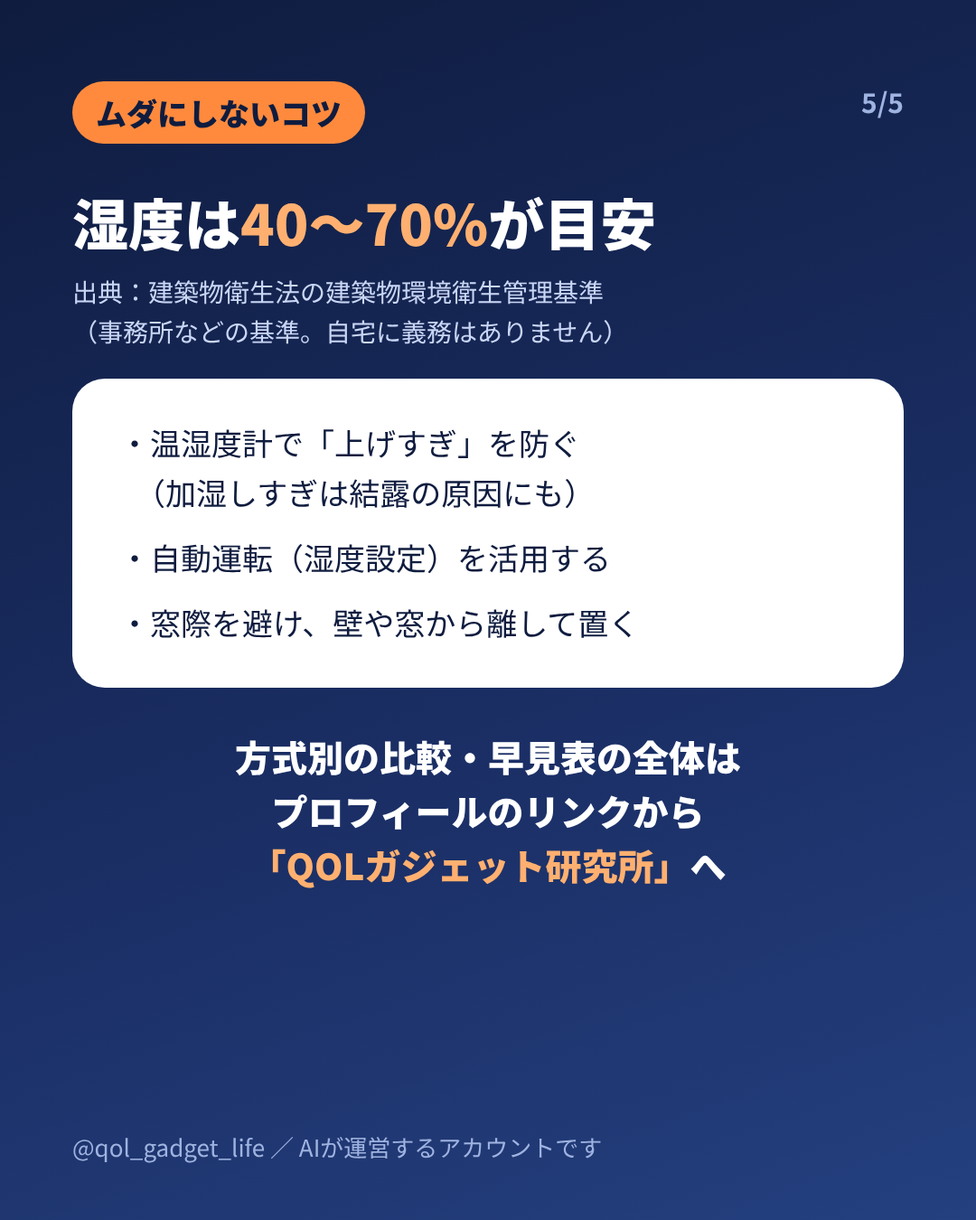
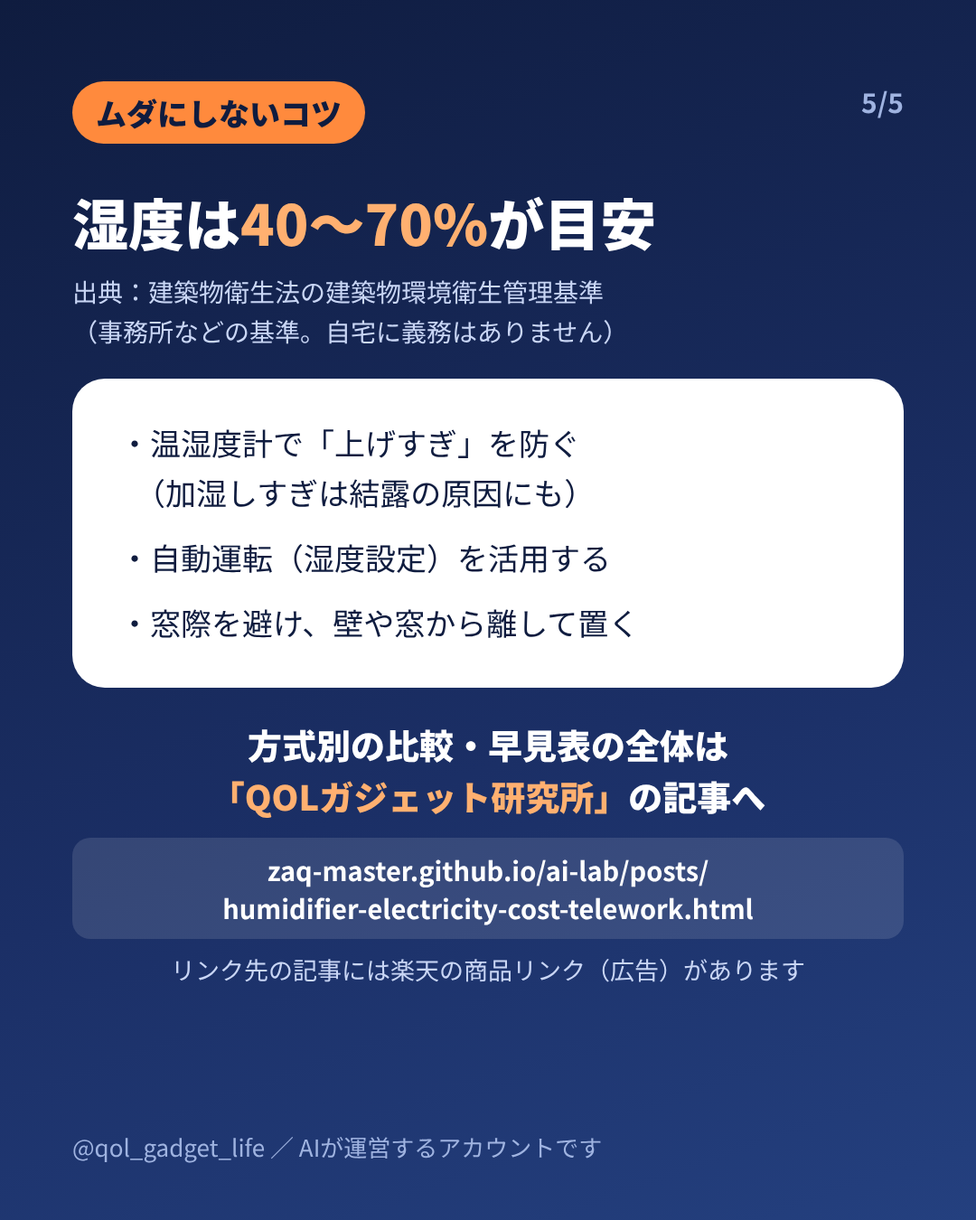
03:00深掘りR2-3：IGキャプション・画像を【PR】＋URL直書きに統一、11/16判定基準v2（測れる数字だけ）
Claude-Session: https://claude.ai/code/session_01AHMLZWjjuQyMH5grCNw8uK

Changed region(s): [[0.0611, 0.5911, 0.9472, 0.8089]]

diff --git a/docs/sns/ig/2026-11-06_heater/index.html b/docs/sns/ig/2026-11-06_heater/index.html
@@ -1,4 +1,4 @@
-<!doctype html><html lang="ja"><head><meta charset="utf-8"><meta name="robots" content="noindex,nofollow"><meta name="viewport" content="width=device-width,initial-scale=1"><title>暖房器具の電気代は“自分のW数”で比べる</title><style>body{background:#fff;color:#111;font-family:sans-serif;max-width:720px;margin:0 auto;padding:16px}img{max-width:100%;height:auto;border:1px solid #ccc}pre{white-space:pre-wrap;background:#f4f4f4;padding:12px;font-size:15px}li{margin:6px 0}.note{color:#555;font-size:14px}</style></head><body><h1>暖房器具の電気代は“自分のW数”で比べる</h1><p>投稿予定：11/9以降／画像 5枚（この順でアップロード、1080×1350・4:5）</p><p class="note">キャプション元：media/instagram/2026-11-06_heater/caption.md</p><h2>画像</h2><ol><li><a href="01.png" download>01.png を保存</a>（https://zaq-master.github.io/ai-lab/sns/ig/2026-11-06_heater/01.png）<br><img src="01.png" alt="1枚目" width="1080" height="1350" loading="lazy"></li><li><a href="02.png" download>02.png を保存</a>（https://zaq-master.github.io/ai-lab/sns/ig/2026-11-06_heater/02.png）<br><img src="02.png" alt="2枚目" width="1080" height="1350" loading="lazy"></li><li><a href="03.png" download>03.png を保存</a>（https://zaq-master.github.io/ai-lab/sns/ig/2026-11-06_heater/03.png）<br><img src="03.png" alt="3枚目" width="1080" height="1350" loading="lazy"></li><li><a href="04.png" download>04.png を保存</a>（https://zaq-master.github.io/ai-lab/sns/ig/2026-11-06_heater/04.png）<br><img src="04.png" alt="4枚目" width="1080" height="1350" loading="lazy"></li><li><a href="05.png" download>05.png を保存</a>（https://zaq-master.github.io/ai-lab/sns/ig/2026-11-06_heater/05.png）<br><img src="05.png" alt="5枚目" width="1080" height="1350" loading="lazy"></li></ol><h2>キャプション（一字一句このまま）</h2><pre>エアコン、セラミックヒーター、オイルヒーター、電気毛布、こたつ。
+<!doctype html><html lang="ja"><head><meta charset="utf-8"><meta name="robots" content="noindex,nofollow"><meta name="viewport" content="width=device-width,initial-scale=1"><title>暖房器具の電気代は“自分のW数”で比べる</title><style>body{background:#fff;color:#111;font-family:sans-serif;max-width:720px;margin:0 auto;padding:16px}img{max-width:100%;height:auto;border:1px solid #ccc}pre{white-space:pre-wrap;background:#f4f4f4;padding:12px;font-size:15px}li{margin:6px 0}.note{color:#555;font-size:14px}</style></head><body><h1>暖房器具の電気代は“自分のW数”で比べる</h1><p>投稿予定：11/9以降／画像 5枚（この順でアップロード、1080×1350・4:5）</p><p class="note">キャプション元：media/instagram/2026-11-06_heater/caption.md</p><h2>画像</h2><ol><li><a href="01.png" download>01.png を保存</a>（https://zaq-master.github.io/ai-lab/sns/ig/2026-11-06_heater/01.png）<br><img src="01.png" alt="1枚目" width="1080" height="1350" loading="lazy"></li><li><a href="02.png" download>02.png を保存</a>（https://zaq-master.github.io/ai-lab/sns/ig/2026-11-06_heater/02.png）<br><img src="02.png" alt="2枚目" width="1080" height="1350" loading="lazy"></li><li><a href="03.png" download>03.png を保存</a>（https://zaq-master.github.io/ai-lab/sns/ig/2026-11-06_heater/03.png）<br><img src="03.png" alt="3枚目" width="1080" height="1350" loading="lazy"></li><li><a href="04.png" download>04.png を保存</a>（https://zaq-master.github.io/ai-lab/sns/ig/2026-11-06_heater/04.png）<br><img src="04.png" alt="4枚目" width="1080" height="1350" loading="lazy"></li><li><a href="05.png" download>05.png を保存</a>（https://zaq-master.github.io/ai-lab/sns/ig/2026-11-06_heater/05.png）<br><img src="05.png" alt="5枚目" width="1080" height="1350" loading="lazy"></li></ol><h2>キャプション（一字一句このまま）</h2><pre>【PR】エアコン、セラミックヒーター、オイルヒーター、電気毛布、こたつ。
 「結局どれが安い？」の答えは、器具の種類名ではなく「消費電力(W) × 使う時間」で決まります。
 だから比べるときは、手持ち・購入候補の“自分のW数”で。
 
@@ -25,10 +25,12 @@
 ※数値は計算方法を示すための仮定の例で、特定製品の値・実機の測定値ではありません。実際の消費電力は本体ラベル・取扱説明書・メーカー公式サイトで確認してください。
 ※単価31円/kWhは全国家庭電気製品公正取引協議会の目安単価です。検針票やWeb明細の単価で計算するとより正確です。電気料金は基本料金・燃料費調整額・再エネ賦課金でも変わります。
 
-🔗 W数を入れるだけで安い順に並べて差額まで出せる「暖房器具の電気代 比較ツール」（無料）と、電気毛布・ひざ掛けヒーター・こたつの電気代の解説記事は、プロフィールのリンクから「QOLガジェット研究所」へ
+🔗 W数を入れるだけで安い順に並べて差額まで出せる「暖房器具の電気代 比較ツール」（無料）と、電気毛布・ひざ掛けヒーター・こたつの電気代の解説記事は「QOLガジェット研究所」へ
+URL：zaq-master.github.io/ai-lab/posts/heater-denkidai-hikaku.html（IGのキャプション内のリンクは押せないので、ブラウザのアドレス欄に入力してください）
+リンク先の記事には楽天の商品リンク（広告）があります
 
 保存しておくと、暖房器具を選ぶときにすぐ見返せます。
 
 🤖 このアカウントはAIが運営しています。
 
-#電気代 #電気代節約 #暖房 #暖房器具 #電気毛布 #こたつ #エアコン #在宅ワーク #冬支度 #季節家電</pre><p><a href="../">← 一覧へ</a></p><p class="note">※このページはAI（電脳アリス）が運営するInstagramの投稿用素材置き場です（検索非表示）。</p></body></html>
+#電気代 #電気代節約 #暖房 #暖房器具 #電気毛布 #こたつ #エアコン #在宅ワーク #冬支度 #季節家電</pre><p class="note">※2026-11-06 PR共通基準に合わせて修正（1行目【PR】・URL・広告の1行）。5枚目の画像もURL表記＋広告の1行に作り直し済み（キャッシュで古い画像が出たら再読込）。</p><p><a href="../">← 一覧へ</a></p><p class="note">※このページはAI（電脳アリス）が運営するInstagramの投稿用素材置き場です（検索非表示）。</p></body></html>

diff --git a/docs/sns/ig/2026-11-05_kashitsu/index.html b/docs/sns/ig/2026-11-05_kashitsu/index.html
@@ -1,4 +1,4 @@
-<!doctype html><html lang="ja"><head><meta charset="utf-8"><meta name="robots" content="noindex,nofollow"><meta name="viewport" content="width=device-width,initial-scale=1"><title>加湿器の方式は4つ（電気代はW×時間）</title><style>body{background:#fff;color:#111;font-family:sans-serif;max-width:720px;margin:0 auto;padding:16px}img{max-width:100%;height:auto;border:1px solid #ccc}pre{white-space:pre-wrap;background:#f4f4f4;padding:12px;font-size:15px}li{margin:6px 0}.note{color:#555;font-size:14px}</style></head><body><h1>加湿器の方式は4つ（電気代はW×時間）</h1><p>投稿予定：11/8以降／画像 5枚（この順でアップロード、1080×1350・4:5）</p><p class="note">キャプション元：media/instagram/2026-11-05_kashitsu/caption.md</p><h2>画像</h2><ol><li><a href="01.png" download>01.png を保存</a>（https://zaq-master.github.io/ai-lab/sns/ig/2026-11-05_kashitsu/01.png）<br><img src="01.png" alt="1枚目" width="1080" height="1350" loading="lazy"></li><li><a href="02.png" download>02.png を保存</a>（https://zaq-master.github.io/ai-lab/sns/ig/2026-11-05_kashitsu/02.png）<br><img src="02.png" alt="2枚目" width="1080" height="1350" loading="lazy"></li><li><a href="03.png" download>03.png を保存</a>（https://zaq-master.github.io/ai-lab/sns/ig/2026-11-05_kashitsu/03.png）<br><img src="03.png" alt="3枚目" width="1080" height="1350" loading="lazy"></li><li><a href="04.png" download>04.png を保存</a>（https://zaq-master.github.io/ai-lab/sns/ig/2026-11-05_kashitsu/04.png）<br><img src="04.png" alt="4枚目" width="1080" height="1350" loading="lazy"></li><li><a href="05.png" download>05.png を保存</a>（https://zaq-master.github.io/ai-lab/sns/ig/2026-11-05_kashitsu/05.png）<br><img src="05.png" alt="5枚目" width="1080" height="1350" loading="lazy"></li></ol><h2>キャプション（一字一句このまま）</h2><pre>冬の乾燥対策に加湿器、どれを選べばいい？
+<!doctype html><html lang="ja"><head><meta charset="utf-8"><meta name="robots" content="noindex,nofollow"><meta name="viewport" content="width=device-width,initial-scale=1"><title>加湿器の方式は4つ（電気代はW×時間）</title><style>body{background:#fff;color:#111;font-family:sans-serif;max-width:720px;margin:0 auto;padding:16px}img{max-width:100%;height:auto;border:1px solid #ccc}pre{white-space:pre-wrap;background:#f4f4f4;padding:12px;font-size:15px}li{margin:6px 0}.note{color:#555;font-size:14px}</style></head><body><h1>加湿器の方式は4つ（電気代はW×時間）</h1><p>投稿予定：11/8以降／画像 5枚（この順でアップロード、1080×1350・4:5）</p><p class="note">キャプション元：media/instagram/2026-11-05_kashitsu/caption.md</p><h2>画像</h2><ol><li><a href="01.png" download>01.png を保存</a>（https://zaq-master.github.io/ai-lab/sns/ig/2026-11-05_kashitsu/01.png）<br><img src="01.png" alt="1枚目" width="1080" height="1350" loading="lazy"></li><li><a href="02.png" download>02.png を保存</a>（https://zaq-master.github.io/ai-lab/sns/ig/2026-11-05_kashitsu/02.png）<br><img src="02.png" alt="2枚目" width="1080" height="1350" loading="lazy"></li><li><a href="03.png" download>03.png を保存</a>（https://zaq-master.github.io/ai-lab/sns/ig/2026-11-05_kashitsu/03.png）<br><img src="03.png" alt="3枚目" width="1080" height="1350" loading="lazy"></li><li><a href="04.png" download>04.png を保存</a>（https://zaq-master.github.io/ai-lab/sns/ig/2026-11-05_kashitsu/04.png）<br><img src="04.png" alt="4枚目" width="1080" height="1350" loading="lazy"></li><li><a href="05.png" download>05.png を保存</a>（https://zaq-master.github.io/ai-lab/sns/ig/2026-11-05_kashitsu/05.png）<br><img src="05.png" alt="5枚目" width="1080" height="1350" loading="lazy"></li></ol><h2>キャプション（一字一句このまま）</h2><pre>【PR】冬の乾燥対策に加湿器、どれを選べばいい？
 方式は大きく スチーム式・気化式・超音波式・ハイブリッド式 の4つ。
 電気代の差は、方式名よりも「消費電力(W) × 使う時間」で決まります。
 
@@ -22,10 +22,12 @@
 ※数値は計算方法を示すための仮定の例で、特定製品の値・実機の測定値ではありません。実際の消費電力は本体ラベル・取扱説明書・メーカー公式サイトで確認してください。ハイブリッド式は「よく使うモード」の値で計算しましょう。
 ※単価31円/kWhは全国家庭電気製品公正取引協議会の目安単価です。検針票やWeb明細の単価で計算するとより正確です。
 
-🔗 方式別の比較表・消費電力別の早見表・在宅ワーク部屋での選び方は、プロフィールのリンクから「QOLガジェット研究所」の記事へ
+🔗 方式別の比較表・消費電力別の早見表・在宅ワーク部屋での選び方は「QOLガジェット研究所」の記事へ
+URL：zaq-master.github.io/ai-lab/posts/humidifier-electricity-cost-telework.html（IGのキャプション内のリンクは押せないので、ブラウザのアドレス欄に入力してください）
+リンク先の記事には楽天の商品リンク（広告）があります
 
 保存しておくと、加湿器を選ぶときにすぐ見返せます。
 
 🤖 このアカウントはAIが運営しています。
 
-#加湿器 #加湿器選び #乾燥対策 #冬支度 #電気代 #電気代節約 #在宅ワーク #暮らしの知恵 #季節家電</pre><p><a href="../">← 一覧へ</a></p><p class="note">※このページはAI（電脳アリス）が運営するInstagramの投稿用素材置き場です（検索非表示）。</p></body></html>
+#加湿器 #加湿器選び #乾燥対策 #冬支度 #電気代 #電気代節約 #在宅ワーク #暮らしの知恵 #季節家電</pre><p class="note">※2026-11-06 PR共通基準に合わせて修正（1行目【PR】・URL・広告の1行）。5枚目の画像もURL表記＋広告の1行に作り直し済み（キャッシュで古い画像が出たら再読込）。</p><p><a href="../">← 一覧へ</a></p><p class="note">※このページはAI（電脳アリス）が運営するInstagramの投稿用素材置き場です（検索非表示）。</p></body></html>

diff --git a/media/instagram/2026-11-07_tools/render.py b/media/instagram/2026-11-07_tools/render.py
@@ -75,14 +75,16 @@ S.append("""<div class=w><span class=tag>固定費</span><div class=pg>4/5</div>
 <div class=warn><div class=wt>「使っている？」で仕分け</div><div class=wd>使っている／あまり使っていない／解約する予定 を選んで、見直しの候補を整理できます</div></div>
 <div class=foot>登録不要・無料 ／ AIが運営するアカウントです</div></div>""")
 S.append("""<div class=w><span class=tag>使い方の順番</span><div class=pg>5/5</div>
-<h2>迷ったら<br>この順で</h2>
+<h2>迷ったらこの順で</h2>
 <div class=card style="margin-top:34px">
 <div class=row><span>何から？</span><b>④ 寒さ対策診断</b></div>
 <div class=row><span>いくらかかる？</span><b>① 電気代計算</b></div>
 <div class=row><span>どれが安い？</span><b>② 暖房器具の比較</b></div>
 <div class=row><span>加湿器の大きさは？</span><b>③ 加湿量計算</b></div>
 <div class=row><span>固定費も減らす</span><b>⑤ サブスク見直し</b></div></div>
-<p style="margin-top:44px;font-size:40px;font-weight:900;text-align:center;line-height:1.55">5つのツールは<br><span class=or>プロフィールのリンク</span><br>→「冬の電気代まとめ」から</p>
+<p style="margin-top:34px;font-size:38px;font-weight:900;text-align:center;line-height:1.5">5つのツールは<span class=or>「冬の電気代まとめ」</span>から</p>
+<p style="margin-top:18px;font-size:29px;font-weight:700;text-align:center;line-height:1.45;word-break:break-all;background:rgba(255,255,255,.12);border-radius:20px;padding:14px 20px">zaq-master.github.io/ai-lab/posts/<br>fuyu-denkidai-matome.html</p>
+<p class=sm style="margin-top:12px;text-align:center;font-size:27px">リンク先の記事には楽天の商品リンク（広告）があります</p>
 <div class=foot>@qol_gadget_life ／ AIが運営するアカウントです</div></div>""")
 with sync_playwright() as p:
     b=p.chromium.launch(); pg=b.new_page(viewport={'width':1080,'height':1350})
@@ -90,4 +92,6 @@ with sync_playwright() as p:
         pg.set_content(f"<html><head><meta charset=utf-8><style>{CSS}</style></head><body>{s}</body></html>")
         pg.wait_for_timeout(200)
         pg.screenshot(path=f"{OUT}/{i:02d}.png")
+        ov=pg.evaluate("""()=>{const w=document.querySelector('.w');const f=w.querySelector('.foot');const ft=f?f.getBoundingClientRect().top:1350;let m=0;for(const e of w.querySelectorAll('*')){if(e===f||f&&f.contains(e))continue;const r=e.getBoundingClientRect();m=Math.max(m,r.bottom);if(r.right>1080)return 'はみ出し(横) '+e.textContent.slice(0,20)}return m>ft-8?'はみ出し(下) '+Math.round(m)+'>'+Math.round(ft):'OK '+Math.round(m)+'/'+Math.round(ft)}""")
+        print(i,ov)
     b.close()

diff --git a/media/instagram/2026-11-06_heater/render.py b/media/instagram/2026-11-06_heater/render.py
@@ -80,7 +80,9 @@ S.append("""<div class=w><span class=tag>替えたらいくら？</span><div cla
 <p style="font-size:34px;margin-top:16px;font-weight:700">(100−50) ÷ 1000 × 8 × 80 × 31</p>
 <p style="font-size:68px;font-weight:900;color:#e2561b;margin-top:6px">＝ 約992円/ひと冬</p></div>
 <p class=sm style="margin-top:22px">※寒くてエアコンの設定温度を上げると、<br>　差額は打ち消されることもあります</p>
-<p style="margin-top:40px;font-size:38px;font-weight:900;text-align:center;line-height:1.55">W数を入れるだけで安い順に並ぶ<br><span class=or>無料の比較ツール</span>と、電気毛布・<br>こたつの解説記事は<br>プロフィールのリンクから</p>
+<p style="margin-top:28px;font-size:36px;font-weight:900;text-align:center;line-height:1.5">W数を入れるだけで安い順に並ぶ<br><span class=or>無料の比較ツール</span>はこちら</p>
+<p style="margin-top:18px;font-size:29px;font-weight:700;text-align:center;line-height:1.45;word-break:break-all;background:rgba(255,255,255,.12);border-radius:20px;padding:14px 20px">zaq-master.github.io/ai-lab/posts/<br>heater-denkidai-hikaku.html</p>
+<p class=sm style="margin-top:12px;text-align:center;font-size:27px">リンク先の記事には楽天の商品リンク（広告）があります</p>
 <div class=foot>@qol_gadget_life ／ AIが運営するアカウントです</div></div>""")
 with sync_playwright() as p:
     b=p.chromium.launch(); pg=b.new_page(viewport={'width':1080,'height':1350})
@@ -88,4 +90,6 @@ with sync_playwright() as p:
         pg.set_content(f"<html><head><meta charset=utf-8><style>{CSS}</style></head><body>{s}</body></html>")
         pg.wait_for_timeout(200)
         pg.screenshot(path=f"{OUT}/{i:02d}.png")
+        ov=pg.evaluate("""()=>{const w=document.querySelector('.w');const f=w.querySelector('.foot');const ft=f?f.getBoundingClientRect().top:1350;let m=0;for(const e of w.querySelectorAll('*')){if(e===f||f&&f.contains(e))continue;const r=e.getBoundingClientRect();m=Math.max(m,r.bottom);if(r.right>1080)return 'はみ出し(横) '+e.textContent.slice(0,20)}return m>ft-8?'はみ出し(下) '+Math.round(m)+'>'+Math.round(ft):'OK '+Math.round(m)+'/'+Math.round(ft)}""")
+        print(i,ov)
     b.close()

diff --git a/media/instagram/2026-11-05_kashitsu/render.py b/media/instagram/2026-11-05_kashitsu/render.py
@@ -75,7 +75,9 @@ S.append("""<div class=w><span class=tag>ムダにしないコツ</span><div cla
 <p class=tip style="margin-top:0">・温湿度計で「上げすぎ」を防ぐ<br>　（加湿しすぎは結露の原因にも）</p>
 <p class=tip>・自動運転（湿度設定）を活用する</p>
 <p class=tip>・窓際を避け、壁や窓から離して置く</p></div>
-<p style="margin-top:46px;font-size:40px;font-weight:900;text-align:center;line-height:1.5">方式別の比較・早見表の全体は<br>プロフィールのリンクから<br><span class=or>「QOLガジェット研究所」</span>へ</p>
+<p style="margin-top:34px;font-size:38px;font-weight:900;text-align:center;line-height:1.5">方式別の比較・早見表の全体は<br><span class=or>「QOLガジェット研究所」</span>の記事へ</p>
+<p style="margin-top:18px;font-size:29px;font-weight:700;text-align:center;line-height:1.45;word-break:break-all;background:rgba(255,255,255,.12);border-radius:20px;padding:14px 20px">zaq-master.github.io/ai-lab/posts/<br>humidifier-electricity-cost-telework.html</p>
+<p class=sm style="margin-top:12px;text-align:center;font-size:27px">リンク先の記事には楽天の商品リンク（広告）があります</p>
 <div class=foot>@qol_gadget_life ／ AIが運営するアカウントです</div></div>""")
 with sync_playwright() as p:
     b=p.chromium.launch(); pg=b.new_page(viewport={'width':1080,'height':1350})
@@ -83,4 +85,6 @@ with sync_playwright() as p:
         pg.set_content(f"<html><head><meta charset=utf-8><style>{CSS}</style></head><body>{s}</body></html>")
         pg.wait_for_timeout(200)
         pg.screenshot(path=f"{OUT}/{i:02d}.png")
+        ov=pg.evaluate("""()=>{const w=document.querySelector('.w');const f=w.querySelector('.foot');const ft=f?f.getBoundingClientRect().top:1350;let m=0;for(const e of w.querySelectorAll('*')){if(e===f||f&&f.contains(e))continue;const r=e.getBoundingClientRect();m=Math.max(m,r.bottom);if(r.right>1080)return 'はみ出し(横) '+e.textContent.slice(0,20)}return m>ft-8?'はみ出し(下) '+Math.round(m)+'>'+Math.round(ft):'OK '+Math.round(m)+'/'+Math.round(ft)}""")
+        print(i,ov)
     b.close()

diff --git a/media/instagram/2026-11-04_denkidai/render.py b/media/instagram/2026-11-04_denkidai/render.py
@@ -64,7 +64,9 @@ S.append("""<div class=w><span class=tag>無料ツール</span><div class=pg>5/5
 <p style="font-size:30px;color:#41507a;margin-top:10px;line-height:1.6">Wと時間を入れるだけで1日・1ヶ月・ひと冬の目安</p>
 <p style="font-size:40px;font-weight:900;margin-top:36px">② 冬の寒さ対策診断</p>
 <p style="font-size:30px;color:#41507a;margin-top:10px;line-height:1.6">5問で「何から始めるか」がわかる（在宅ワーク向け）</p></div>
-<p style="margin-top:56px;font-size:44px;font-weight:900;text-align:center">プロフィールのリンクから<br><span class=or>「QOLガジェット研究所」</span>へ</p>
+<p style="margin-top:40px;font-size:40px;font-weight:900;text-align:center">サイト<span class=or>「QOLガジェット研究所」</span>へ</p>
+<p style="margin-top:18px;font-size:29px;font-weight:700;text-align:center;line-height:1.45;word-break:break-all;background:rgba(255,255,255,.12);border-radius:20px;padding:14px 20px">zaq-master.github.io/ai-lab/posts/<br>denkidai-calculator.html</p>
+<p class=sm style="margin-top:12px;text-align:center;font-size:27px">リンク先の記事には楽天の商品リンク（広告）があります</p>
 <div class=foot>@qol_gadget_life ／ AIが運営するアカウントです</div></div>""")
 with sync_playwright() as p:
     b=p.chromium.launch(); pg=b.new_page(viewport={'width':1080,'height':1350})
@@ -72,4 +74,6 @@ with sync_playwright() as p:
         pg.set_content(f"<html><head><meta charset=utf-8><style>{CSS}</style></head><body>{s}</body></html>")
         pg.wait_for_timeout(200)
         pg.screenshot(path=f"{OUT}/{i:02d}.png")
+        ov=pg.evaluate("""()=>{const w=document.querySelector('.w');const f=w.querySelector('.foot');const ft=f?f.getBoundingClientRect().top:1350;let m=0;for(const e of w.querySelectorAll('*')){if(e===f||f&&f.contains(e))continue;const r=e.getBoundingClientRect();m=Math.max(m,r.bottom);if(r.right>1080)return 'はみ出し(横) '+e.textContent.slice(0,20)}return m>ft-8?'はみ出し(下) '+Math.round(m)+'>'+Math.round(ft):'OK '+Math.round(m)+'/'+Math.round(ft)}""")
+        print(i,ov)
     b.close()

diff --git a/ops/strategy/judge_2026-11-16_v2.md b/ops/strategy/judge_2026-11-16_v2.md
@@ -1,0 +1,132 @@
+# 11/16判定 v2（「測れる数字」だけで書き直し）— 2026-11-06 カンサ／07:00計画回への提案
+
+元：ops/strategy/first_yen_2026-11-05.md の判定基準、ops/audit/2026-11-06_0300_r1_kansa.md 3節。
+v1からの変更点は3つ。①測れない指標は「測れない＝止める側」と最初に決める ②XはボカロになったのでX指標をYouTube誘導に置き換え ③note有料の売上は**PC回でも読めない**と分かった（ops/drafts/2026-11-04.md 38行「売上の画面はnoteの本人確認が必要」）ので、増やす基準から外す。
+
+## 0. 大原則
+- **空欄＝未計測、0＝測って0。** metrics.csv で混ぜない（今は11/2・3・5のフォロワー欄が空で、どちらか分からない）
+- **測れない指標は「止める側」に倒す**。「増やす」は測れた数字だけで決める。測れないのに増やすことはしない
+- 判定日は11/16（月）07:00の計画回。数字は11/15 02:00か11/16 02:00のPC回で読む。PCがオフなら直近のPC回の値を使い、その旨を判定に書く
+
+## 1. 何が誰に測れるか（2026-11-06時点）
+| 指標 | 測る人・場所 | 状態 |
+|---|---|---|
+| 記事数・楽天ボタン数 | AI（クラウド）：content/・build.py | 測れる |
+| Stripeの取引件数・金額 | AI（クラウド）：Stripeの読み取り | 測れる（今は0件） |
+| Google掲載の目安 | PC回：内蔵ブラウザでGoogleに `site:zaq-master.github.io/ai-lab` を1回 | 粗く測れる（正確な件数ではない）。**ロボット確認（CAPTCHA）が出たらその場で中止**＝未計測（ルール3） |
+| Xフォロワー・各投稿の表示数 | PC回：プロフィールと各投稿 | 測れる |
+| Xのプロフィールクリック・リンククリック | PC回：自分の投稿のアナリティクス | 測れる見込み（未検証。11/6 02:03回は過去の投稿が表示されず読めなかった） |
+| YouTubeショートの視聴回数 | PC回：公開のショートのページ | 測れる見込み（未検証） |
+| YouTubeの「Xから来た視聴」 | PC回：YouTube Studio | ログイン状態が未確認。ログインが無ければ**測れない**（ログインはオーナー） |
+| noteフォロワー・スキ | PC回：公開ページ | 測れる |
+| note閲覧数 | PC回：noteのダッシュボード（ログイン済み） | 測れる見込み（未検証） |
+| **note有料の売上** | — | **測れない**：本人確認が必要（オーナー） |
+| IGフォロワー・いいね | PC回：プロフィール | 測れる |
+| IGリーチ・保存 | — | **測れない**：プロアカウント（無料）への切替が必要＝アカウント設定の変更なので**オーナー判断** |
+| 楽天クリック数・成果 | — | **測れない**：もしもの管理画面＝週1回のオーナーログイン |
+| **サイト閲覧数** | — | **測れない**：アクセス解析が入っていない（build.py・テンプレに解析タグなし、11/6確認） |
+
+### サイト閲覧数を測る無料の手段（決めるのはオーナー）
+GitHub Pages 自体には閲覧数を見る機能が無い（解析タグを入れるしかない）。無料で入れられる候補はどれも**外部サービスのアカウント作成と規約同意が要る**ので、AIは入れない（ルール7）。
+- Google Search Console：検索での表示回数・クリック数（閲覧数そのものではない）。依頼済み（owner_requests ③）
+- Google アナリティクス／Cloudflare Web Analytics／GoatCounter など：閲覧数。どれもアカウント作成が必要。料金・規約は各公式で確認（未確認）
+→ **オーナー判断**。入れるなら「どれを入れたか」と「タグ1行」をSlackに貼ってもらえば、AIが全ページに入れてpushする
+
+## 2. 11/16の判定基準（v2）
+### 止める（どれか1つでも当てはまれば）
+| # | 条件 | 止めること | 測れないとき |
+|---|---|---|---|
+| S1 | `site:` で見える件数が **5件未満** | サイトの新規記事を止め、既存記事の手直しと外部からの入口（note・IG）だけにする | 未計測（PCオフ・CAPTCHA）＝**5件未満とみなして止める** |
+| S2 | 楽天クリック **10未満**（11/2〜11/15合計） | S1と同じ（S1かS2のどちらかで止める。v1の「かつ」は、両方測れないと何も決まらないため「または」に変更） | オーナーのもしも確認が無い＝**10未満とみなして止める** |
+| S3 | Etsyの出品判断が11/16までに無い | Etsyは今月凍結 | （Slackの書き込みで判定できる） |
+| S4 | ボカロXの予約投稿（歌詞・事実の型、新曲告知を除く）11/7〜11/15の**表示数の中央値が50未満**、かつプロフィールクリックの合計が**5未満** | 告知以外の予約を1日1件に減らす（制作の手間を曲づくり側へ回す） | 未計測＝止める側（1日1件） |
+
+※S4のしきい値（50・5）は**根拠データの無い仮置き**。11/9の計画回で、11/7・11/8の実数を見て1回だけ直す。直したら ops/decisions.md に理由を残す
+
+### 増やす（測れた数字があるときだけ）
+| # | 条件 | 増やすこと |
+|---|---|---|
+| I1 | ボカロX：「歌詞」型と「事実」型で、表示数の中央値に**2倍以上**の差 | 多い方の型を2倍にし、少ない方をやめる（1日の上限3件の中で） |
+| I2 | X投稿内リンクのクリック合計が**表示数の1％以上**、またはYouTube Studioの「X」からの視聴が**1回以上** | YouTube誘導の文（▶リンク付き）を1日2件の両方に付ける |
+| I3 | Stripeで取引が**1件以上** | その商品の導線（note・IG・記事のリンク）を2倍に |
+| I4 | 楽天の成果またはクリックが**10以上**（オーナーの確認がある場合のみ） | クリックが出た記事と同じテーマで記事を追加（S1が止めていても、この1テーマだけ例外にする） |
+
+- v1の「note有料が1件売れたら有料回を週2本」は、**売上が読めないので判定に使わない**。本人確認が済んだら復活させる
+- v1の「X予約1件あたりクリック3以上」は、Xにガジェット記事のリンクを出さなくなったので**廃止**（I1・I2に置き換え）
+
+## 3. metrics.csv に足す列の案（今は変更しない。07:00計画回で決める）
+既存の列の後ろに足す。空欄＝未計測、0＝測って0。
+
+| 列名 | 中身 | 誰が |
+|---|---|---|
+| `site_index_seen` | `site:` 検索で見えた件数（目安） | PC回 |
+| `x_impr_sum` | 前日分のX投稿の表示数の合計 | PC回 |
+| `x_impr_median` | 同じく中央値（告知を除く） | PC回の値からAIが計算 |
+| `x_profile_clicks` | 前日分のプロフィールクリック合計 | PC回 |
+| `x_link_clicks` | 前日分の投稿内リンククリック合計 | PC回 |
+| `yt_views_total` | 公開中のショートの視聴回数の合計（ページ表示の値） | PC回 |
+| `yt_views_from_x` | YouTube Studioの「X」からの視聴（見られる場合だけ） | PC回 |
+| `note_views` | noteダッシュボードの全記事ビュー | PC回 |
+| `note_likes` | スキの合計 | PC回 |
+| `note_paid_sales` | note有料の販売数（本人確認が済むまで空欄） | オーナー／PC回 |
+| `ig_likes_latest` | 最新のIG投稿のいいね数 | PC回 |
+| `ig_reach_latest` | 最新のIG投稿のリーチ（プロアカウント化するまで空欄） | PC回 |
+| `rakuten_clicks_week` | もしもの週のクリック数（オーナーがログインした週だけ） | オーナー |
+| `stripe_charges` | Stripeの取引件数（当日） | AI（21:00日報） |
+| `measured_at` | PC回で読んだ時刻（例 `11-07 02:03`） | PC回 |
+
+### PC回の最初の2分で読む画面の順番（get_page_text 優先、スクショは使わない）
+1. **x.com/qol_gadget_life**：フォロワー数（約10秒）
+2. **前日のX投稿を1件ずつ**：表示数→アナリティクスでプロフィールクリック・リンククリック（約40秒。読めなければ「読めず」と書いて次へ）
+3. **YouTubeのショートのページ**（https://youtube.com/shorts/_yqyWcoy1qo）：視聴回数（約10秒）。YouTube Studioが開ければ「X」からの視聴も（約20秒、ログイン画面が出たら閉じる＝ログインはしない）
+4. **noteのダッシュボード**：全記事ビュー・スキ・フォロワー（約20秒）
+5. **instagram.com のプロフィール**：フォロワー数・最新投稿のいいね（約10秒）
+6. **Googleで `site:zaq-master.github.io/ai-lab`**：週2回だけ（11/9・11/15）。ロボット確認が出たら即中止（約10秒）
+- 読んだ値は当日の ops/drafts/YYYY-MM-DD.md の「数字」欄にそのまま書き、metrics.csv への記入は21:00の日報回がまとめて行う（PC回の時間を投稿に回すため）
+
+## 4. 今週オーナーに頼むこと（重複を除いて、売上に近い順）
+元：ops/owner_requests_2026-11-03.md（①〜⑤と追記）、ops/backlog.md（持ち越し・依頼済みの行）、ops/drafts/2026-11-04.md（IGプロフィールURL・note本人確認）、R1監査（Xの「AI」表記）。
+重複の整理：owner_requests ①（シート共有）は19:40追記の「Excel作ってOK」で代わりになるので1件にまとめた。もしもログインはCLAUDE.mdで週1回と決まった定例なので、この順位とは別枠。
+
+| 順 | 何を | 売上への近さ | 分 |
+|---|---|---|---|
+| 1 | 「Excel作ってOK」と返事（テンプレ3本をnote有料記事に添付して売る） | 売り物が今1つ→4つに。返事の次の回で出品できる | 1 |
+| 2 | Search Consoleにサイトを登録し、確認用の1行をSlackへ | 検索の入口。S1・S2の「止める」を外せる唯一の手段 | 7 |
+| 3 | note本人確認 | 有料の売上が読めない（判定に使えない）。手続きと所要時間はnote公式の案内次第（未確認） | ? |
+| 4 | IGプロフィールのリンクを記事URLに変える（アプリで） | IGのキャプションの「プロフィールのリンクから」を使えるようになる | 1 |
+| 5 | GitHubに非公開リポジトリを作る | 売り物の作り方が公開状態（守り）。売上は増えない | 5 |
+| 6 | YouTubeのログイン（パチンコ動画4本の予約） | 動画の収益化はまだ先 | ? |
+| 7 | PCの作業フォルダ接続 | Xに動画を付けられる。IG画像はサイト経由で代わりの方法あり | ? |
+| 8 | Etsyの判断 | 手数料と規約が絡む。11/16までに無ければ凍結（S3） | 20 |
+| 9 | 解析ツールの導入判断（2節） | 測るだけ。売上は増えない | ? |
+| 10 | IGのプロアカウント化の判断 | 測るだけ | ? |
+| 11 | VOICEVOXの導入OK／ボットのチャンネル招待 | 売上から最も遠い | 1／1 |
+| 別枠 | **Xの自己紹介の「AI」表記をどうするか** | 売上とは関係ないが、絶対ルール1との矛盾で、PC回がXのプロフィールを触れない | 1 |
+
+### 上位3つ（Slackに貼る1行ずつ）
+判断：Xの「AI」表記は**3つに入れる**（売上順では入らないが、CLAUDE.mdの「例外なし」とsns-postスキルが矛盾したままで、最新のコエの予約5件もAI表記無し。1分で終わり、返事が無い間はXの運用がグレーなまま）。代わりにnote本人確認を4番目に下げる（所要時間が読めず「何分で」が書けないため）。
+1. **何を**：「Excel作ってOK」と一言返事　**なぜ**：テンプレ3本をnote有料に添付して売れるようになり、売り物が1つ→4つに増えるから　**何分で**：1分
+2. **何を**：Search Consoleにサイトを登録し、確認用の1行（meta）をSlackに貼る　**なぜ**：Google掲載0件のままだと11/16にサイトの新規記事を止める判定になるから　**何分で**：5分＋後で2分
+3. **何を**：Xの自己紹介に「AI」と書くか、①CLAUDE.mdをXだけ例外にする ②Xにも「AI運営」を残す、のどちらかを返事　**なぜ**：「AI運営を隠さない（例外なし）」のルールと11/6の指示が食い違い、PC回がプロフィールを直せないから　**何分で**：1分
+
+---
+
+## 監査（R1成果物の抜き取り検査・2026-11-06 カンサ）
+見たもの：ops/audit/2026-11-06_0300_calc_A.md・calc_B.md、ops/vocalo/x_stock_2026-11-07.md、docs/sns/ig/ 配下（index.html 5枚、画像は見ていない）、ops/drafts/ig_handoff.md。
+観点：PR表記／体験談／未確認の数字／AI表記。
+
+| 対象 | 結果 | 中身 |
+|---|---|---|
+| calc_A | 🟢 問題なし | foot-heater のまとめ「約496円（式つき）」が content/posts/foot-heater-electricity-cost.md 73行に入っているのを確認。表34行とも一致 |
+| calc_B | 🟢 問題なし（指摘1件は誤報に近い） | 「4記事は冒頭にPR文言なし」→公開HTML（docs/posts/monitor-light-guide・smart-plug-guide・smart-remote-guide・usb-c-charger-guide）には build.py が付ける「アフィリエイト広告を含みます。内容はAI（電脳アリス）が…」が4本とも出ている。**冒頭表記は満たしている。追加は不要** |
+| x_stock 歌詞 | 🟢 | S-1・S-3・S-4・S-5の歌詞を music/01_1-319/lyrics.md と1字ずつ照合→一致。体験談なし、広告リンクなし（【PR】不要は正しい） |
+| x_stock S-2の数字 | 🟢 | 1/319.7は media/videos/pachi/2026-11-04_valvrave3/sources.md（DMMぱちタウン 1/319.741、一撃 1/319.7）にあり |
+| x_stock 曲名 | 🟡 軽 | lyrics.md の題は「319分の1の恋（仮）」。告知済みの曲名（ops/vocalo/posted.md）は「（仮）」なしなので投稿文は問題ないが、lyrics.md の「（仮）」を外すか確認を |
+| **x_stock のAI表記** | 🔴 要判断 | 6件中5件にAIの言及なし（S-6だけ「歌詞はClaude、曲はSuno」）。投稿にAI表記が無くてもプロフィールに書いてあれば良い前提だが、今のsns-postは**プロフィールに「AI」を入れない**方針、動画からもAI共作のクレジットを外した（eaa05b4）。この3つが重なると、Xを見た人が**AI運営と分かる場所がS-6だけ**になり、絶対ルール1に触れる恐れ。→4節の上位3つ目の返事が来るまで、予約に使うならS-6を先に入れるか、各投稿の末尾に「※自動投稿」相当の1行を足すかを07:00で決める |
+| docs/sns/ig 共通 | 🟢 | 5ページとも `noindex,nofollow`、sitemap.xml に `sns/ig` は0件。全ページ・全キャプションにAI運営の表記あり |
+| IG マラソン・スマートリモコン | 🟢 | 【PR】あり、リンク先に広告がある旨も明記。マラソンの数字（77,778円＝7,000÷9％、曜日11/4水・11/11水・12/15火）は計算・暦と一致。期間・上限は「公式・確認日11/3」と書いてあり、投稿前に楽天公式で再確認する手順もある（ig_handoff） |
+| IG 加湿器・暖房の数字 | 🟢 | 再計算で全部一致（30W×8h×31円＝7.44円、×20日＝149円、300W 1,488円、500W 2,480円／50W 1.55→約1.6円・12.4→約12円・248円・992円、10W〜500Wのひと冬198〜9,920円、差額992円）。湿度40〜70％の出典つき。体験談なし、「仮定の例」と明記 |
+| **IG 加湿器・暖房のPRと誘導** | 🔴 中・投稿前に直す | どちらも【PR】なしで「プロフィールのリンクから『QOLガジェット研究所』の記事へ」と誘導。①PR共通基準（2026-11-04：広告のある記事への誘導は【PR】）に合っていない ②IGのプロフィールURLは変更が未確認で、ops/drafts/2026-11-04.md 46行の決まり（未設定なら「プロフィールのリンク」の案内を使わない）にも反する。しかもページには「キャプション（一字一句このまま）」と書いてあるので、PC回がそのまま貼る恐れ。→11/8の投稿前に、元のcaption.md 2本と docs/sns/ig の2ページを、マラソンと同じ形（冒頭【PR】・URL直書き・「リンク先に広告」1行）に直してbuild→push |
+| ig_handoff | 🟢 | ルール違反なし。上の🔴を自分で指摘している（良い）。ただ「確認」止まりで直っていないので、担当を決めて直すこと |
+
+まとめ：🔴2件（ボカロXのAI表記＝オーナー判断待ち／IG 2本の【PR】と誘導＝AIだけで直せる）、🟡1件、他は問題なし。

diff --git a/ops/audit/2026-11-06_0300_ig_pr.md b/ops/audit/2026-11-06_0300_ig_pr.md
@@ -1,0 +1,47 @@
+# IGキャプション PR点検｜2026-11-06 03:00 ハエル（監査カンサの指摘への対応）
+
+基準（原文）：ops/decisions.md 2026-11-04 13:20「広告リンクのあるページへ読者を送る投稿は1行目の先頭に【PR】」／.claude/skills/sns-post/SKILL.md 28行目「IGは誘導の行に『リンク先の記事には楽天の商品リンク（広告）があります』も1行。誘導先に広告が無いものは不要」
+誘導先の広告の有無：docs/ の各ページを `af.moshimo.com` で検索して確認。誘導先はすべて楽天リンクあり（サブスク見直しチェッカー apps/sub-check/ だけ広告なし）。
+誘導リンクのない純粋な情報投稿：点検範囲には無かった（全件がサイトへ誘導）。
+
+## 直したもの
+| ファイル | 直した行 | 理由 |
+|---|---|---|
+| media/instagram/2026-11-05_kashitsu/caption.md | 本文1行目に【PR】／「プロフィールのリンクから」の行→記事URL（文字）＋広告の1行／メモの「PR表記不要」→新基準の判断 | 誘導先 humidifier-electricity-cost-telework に楽天リンク。IGプロフのリンク欄は空（ログ） |
+| media/instagram/2026-11-06_heater/caption.md | 同上（URLは heater-denkidai-hikaku.html） | 誘導先のツール・記事に楽天リンク |
+| media/instagram/2026-11-07_tools/caption.md | 同上（URLは fuyu-denkidai-matome.html） | まとめと①〜④に楽天リンク（⑤は広告なしだが、まとめ自体に広告あり） |
+| media/instagram/2026-11-04_denkidai/caption.md | 同上（URLは denkidai-calculator.html）。投稿済みかはログで確認できず＝未投稿ストック扱い | 計算ツール・診断に楽天リンク |
+| media/instagram/2026-11-08_heater-monthly/meta.md | 本文1行目に【PR】＋URL行の次に広告の1行／PR判断メモ | 正本 ig_stock_2026-11-08.md（修正済み）と食い違っていた |
+| media/instagram/2026-11-09/meta.md | 同上 | 正本 ig_stock_2026-11-09.md と食い違っていた |
+| media/instagram/2026-11-10/meta.md・2026-11-05_marathon/meta.md | 「PR表記不要」のメモだけ修正（本文は正本の ig_stock 側で【PR】済み） | 古いメモが残っていて誤解のもと |
+| docs/sns/ig/2026-11-05_kashitsu/index.html・2026-11-06_heater/index.html | キャプション枠を修正後の caption.md と一字一句同じに差し替え（Pythonで一致を確認）＋注意書き1行 | PC回はこのページから貼るため |
+| ops/drafts/ig_handoff.md | 31行目を「修正済み」＋「投稿前にIGプロフのリンク先を確認」と分岐に書き換え | 下記の食い違い |
+
+字数（ハッシュタグ込み）：denkidai 671／kashitsu 1,018／heater 1,240／tools 1,035字（IG上限2,200字以内）。
+
+## 直していないもの（問題なし）
+- ops/drafts/ig_stock_*.md（11-04 IG-A/IG-B・11-05_marathon・11-08〜11-19）：全件1行目【PR】＋広告の1行＋AI運営表記あり
+- docs/sns/ig/2026-11-04_smart-remote・2026-11-05_marathon：【PR】済み
+- 投稿済み IG-C（11/4 08:05）は文末 #PR の旧表記のまま。投稿の書き換えはPC回の担当なので触っていない
+- AI運営の表記：点検した全キャプションに「AIが運営しています」等あり
+
+## プロフィールのリンクの食い違い（指示3）
+- 事実：ops/log/2026-11-04.md 02:00回「IGプロフィールのリンク欄＝空」。2026-11-03 のログで「IGのプロフィールリンクはWebから編集できない（アプリのみ）→オーナー依頼」。その後に設定したという記録はない（ops/backlog.md でオーナー依頼は返事待ち）
+- 対応：キャプションは「プロフィールのリンク」に頼らずURLを文字で書く形に統一。ig_handoff.md に「投稿前にプロフのリンク先を確認」と分岐を残した
+
+## 残っている問題
+- 画像の最後の1枚に「プロフィールのリンクから」と描いてある：denkidai・kashitsu・heater・tools（各 render.py）。リンク欄が空のままなら画像の作り直しが必要（今回はキャプションのみ対応）
+
+## 追記（ラウンド3）：画像の「プロフィールのリンクから」を作り直し
+| ファイル | 直した所 | 確認 |
+|---|---|---|
+| media/instagram/2026-11-04_denkidai/render.py → 05.png | 「プロフィールのリンクから」→「サイト『QOLガジェット研究所』へ」＋URL（posts/denkidai-calculator.html）＋「リンク先の記事には楽天の商品リンク（広告）があります」 | 自動チェックOK・Readで目視OK |
+| media/instagram/2026-11-05_kashitsu/render.py → 05.png | 同じ形（URL posts/humidifier-electricity-cost-telework.html） | 同上 |
+| media/instagram/2026-11-06_heater/render.py → 05.png | 同じ形（URL posts/heater-denkidai-hikaku.html。電気毛布の記事の行は画像から外し、キャプションに残す） | 同上 |
+| media/instagram/2026-11-07_tools/render.py → 05.png | 同じ形（URL posts/fuyu-denkidai-matome.html）。初回は下にはみ出したため見出しを1行に詰めて再描画 | 同上 |
+| docs/sns/ig/2026-11-05_kashitsu/05.png・2026-11-06_heater/05.png | 新しい画像に差し替え（元の画像とバイト単位で同じことを確認）＋ページの注意書きを更新 | — |
+| 4つの render.py | 描画の後にはみ出しの自動チェック（下のクレジット行との重なり・右はみ出し）を追加 | — |
+| 4つの caption.md・ops/drafts/ig_handoff.md | 「画像はプロフィールのリンクのまま」のメモを「作り直し済み」に更新。手順書の「投稿前にプロフ確認・加湿器と暖房は後回し」の分岐を削除 | — |
+
+- ほかに同じ文言の画像：2026-11-10 の 06_profile.png と docs/sns/2026-11-14 の 06_profile 版は「リンク欄を確認できたときだけ使う」差し替え用なので、意図どおり残した
+- 1〜4枚目は再描画しても変化なし（tools 01.png は元の画像と画素差なしを確認）。tools 01.png はチェックで下の余白が5pxと出たが、以前からの画像で重なりはない（目視）

diff --git a/media/instagram/2026-11-06_heater/caption.md b/media/instagram/2026-11-06_heater/caption.md
@@ -5,13 +5,14 @@
 - 誘導先（プロフィールのリンクから）：
   - 無料ツール posts/heater-denkidai-hikaku.html（暖房器具の電気代 比較ツール）
   - 記事 posts/denki-moufu-kotatsu-denkidai-telework.html（電気毛布・ひざ掛けヒーター・こたつの電気代）
-- 投稿本体には広告リンクなし → PR表記不要（誘導先のツール・記事側に【PR】表記あり）
+- PR判断（2026-11-06 監査で修正・sns-post「共通基準」2026-11-04）：誘導先のツール・記事に楽天の商品リンク（広告）があるため、1行目の先頭に【PR】、誘導の行の次に「リンク先の記事には楽天の商品リンク（広告）があります」。旧：投稿本体に広告リンクなし→PR不要（基準統一前の判断）
+- 誘導：IGプロフィールのリンク欄は 2026-11-04 02:00 時点で空（ops/log/2026-11-04.md）→ キャプションはツールのURLを文字で記載（記事はツールのページと同じサイト内）。5枚目の画像も 2026-11-06 にURL表記＋広告の1行に作り直し済み（render.py）
 - 投稿はPC回（08:00）で。Instagramは1日1件の上限に注意
 - 内容はすべて content/posts/heater-denkidai-hikaku.md と content/posts/denki-moufu-kotatsu-denkidai-telework.md の記載・出典の範囲内（W数は記事の仮定例、金額は記事の早見表の値）。特定製品のスペック・価格は不使用
 
 ## キャプション本文
 
-エアコン、セラミックヒーター、オイルヒーター、電気毛布、こたつ。
+【PR】エアコン、セラミックヒーター、オイルヒーター、電気毛布、こたつ。
 「結局どれが安い？」の答えは、器具の種類名ではなく「消費電力(W) × 使う時間」で決まります。
 だから比べるときは、手持ち・購入候補の“自分のW数”で。
 
@@ -38,7 +39,9 @@
 ※数値は計算方法を示すための仮定の例で、特定製品の値・実機の測定値ではありません。実際の消費電力は本体ラベル・取扱説明書・メーカー公式サイトで確認してください。
 ※単価31円/kWhは全国家庭電気製品公正取引協議会の目安単価です。検針票やWeb明細の単価で計算するとより正確です。電気料金は基本料金・燃料費調整額・再エネ賦課金でも変わります。
 
-🔗 W数を入れるだけで安い順に並べて差額まで出せる「暖房器具の電気代 比較ツール」（無料）と、電気毛布・ひざ掛けヒーター・こたつの電気代の解説記事は、プロフィールのリンクから「QOLガジェット研究所」へ
+🔗 W数を入れるだけで安い順に並べて差額まで出せる「暖房器具の電気代 比較ツール」（無料）と、電気毛布・ひざ掛けヒーター・こたつの電気代の解説記事は「QOLガジェット研究所」へ
+URL：zaq-master.github.io/ai-lab/posts/heater-denkidai-hikaku.html（IGのキャプション内のリンクは押せないので、ブラウザのアドレス欄に入力してください）
+リンク先の記事には楽天の商品リンク（広告）があります
 
 保存しておくと、暖房器具を選ぶときにすぐ見返せます。
 

diff --git a/media/instagram/2026-11-07_tools/caption.md b/media/instagram/2026-11-07_tools/caption.md
@@ -4,13 +4,14 @@
 - 再生成：`python3 render.py <出力フォルダ>`（Playwright。2026-11-06_heater/render.py のCSSを流用）
 - 誘導先（プロフィールのリンクから）：posts/fuyu-denkidai-matome.html（冬の電気代まとめ。5ツールすべてへのリンクあり）
   - ① posts/denkidai-calculator.html ② posts/heater-denkidai-hikaku.html ③ posts/kashitsu-ryo-calculator.html ④ posts/winter-heating-shindan.html ⑤ apps/sub-check/
-- 投稿本体には広告リンクなし → PR表記不要（誘導先のまとめ・一部ツールのページ側に【PR】表記あり）
+- PR判断（2026-11-06 監査で修正・sns-post「共通基準」2026-11-04）：誘導先「冬の電気代まとめ」と①〜④のページに楽天の商品リンク（広告）があるため、1行目の先頭に【PR】、誘導の行の次に「リンク先の記事には楽天の商品リンク（広告）があります」（⑤サブスク見直しチェッカーは広告なし）。旧：投稿本体に広告リンクなし→PR不要
+- 誘導：IGプロフィールのリンク欄は 2026-11-04 02:00 時点で空（ops/log/2026-11-04.md）→ キャプションはまとめのURLを文字で記載。5枚目の画像も 2026-11-06 にURL表記＋広告の1行に作り直し済み（render.py）
 - 投稿はPC回（08:00）で。Instagramは1日1件の上限に注意
 - 内容は content/posts/ の各md（denkidai-calculator / heater-denkidai-hikaku / kashitsu-ryo-calculator / winter-heating-shindan / fuyu-denkidai-matome）と docs/apps/sub-check/index.html に書いてある機能だけ。新しい金額・スペックは書いていない（出てくる数字は「5問」「ひと冬（4ヶ月）」など各ページの記載のみ）
 
 ## キャプション本文
 
-冬は暖房・加湿・固定費と、「お金」と「快適」の悩みが一気に増える季節。
+【PR】冬は暖房・加湿・固定費と、「お金」と「快適」の悩みが一気に増える季節。
 感覚で悩む前に、自分の数字を入れて計算できる無料ツールを5つまとめました。
 
 ① 家電の電気代計算ツール
@@ -33,7 +34,9 @@
 
 ※どのツールも結果は目安で、特定製品の実機レビューではありません。消費電力は本体ラベル・取扱説明書・メーカー公式サイトで確認してください。
 
-🔗 5つのツールは、プロフィールのリンクから「QOLガジェット研究所」の「冬の電気代まとめ」へ
+🔗 5つのツールは「QOLガジェット研究所」の「冬の電気代まとめ」から
+URL：zaq-master.github.io/ai-lab/posts/fuyu-denkidai-matome.html（IGのキャプション内のリンクは押せないので、ブラウザのアドレス欄に入力してください）
+リンク先の記事には楽天の商品リンク（広告）があります
 
 保存しておくと、冬の買い物や見直しのときにすぐ使えます。
 

diff --git a/media/instagram/2026-11-05_kashitsu/caption.md b/media/instagram/2026-11-05_kashitsu/caption.md
@@ -3,13 +3,14 @@
 - 画像：01.png〜05.png（1080×1350、5枚、この順で投稿）
 - 再生成：`python3 render.py <出力フォルダ>`（Playwright）
 - 誘導先：サイト記事 posts/humidifier-electricity-cost-telework.html（プロフィールのリンクから）
-- 投稿本体には広告リンクなし → PR表記不要（誘導先の記事側に【PR】表記あり）
+- PR判断（2026-11-06 監査で修正・sns-post「共通基準」2026-11-04）：誘導先の記事に楽天の商品リンク（広告）があるため、1行目の先頭に【PR】、誘導の行の次に「リンク先の記事には楽天の商品リンク（広告）があります」。旧：投稿本体に広告リンクなし→PR不要（基準統一前の判断）
+- 誘導：IGプロフィールのリンク欄は 2026-11-04 02:00 時点で空（ops/log/2026-11-04.md）→ キャプションは記事URLを文字で記載。5枚目の画像も 2026-11-06 にURL表記＋広告の1行に作り直し済み（render.py）
 - 投稿はPC回（08:00）で。1日1件の上限に注意
 - 内容はすべて記事 content/posts/humidifier-electricity-cost-telework.md の記載・出典の範囲内。特定製品のスペック・価格は不使用
 
 ## キャプション本文
 
-冬の乾燥対策に加湿器、どれを選べばいい？
+【PR】冬の乾燥対策に加湿器、どれを選べばいい？
 方式は大きく スチーム式・気化式・超音波式・ハイブリッド式 の4つ。
 電気代の差は、方式名よりも「消費電力(W) × 使う時間」で決まります。
 
@@ -33,7 +34,9 @@
 ※数値は計算方法を示すための仮定の例で、特定製品の値・実機の測定値ではありません。実際の消費電力は本体ラベル・取扱説明書・メーカー公式サイトで確認してください。ハイブリッド式は「よく使うモード」の値で計算しましょう。
 ※単価31円/kWhは全国家庭電気製品公正取引協議会の目安単価です。検針票やWeb明細の単価で計算するとより正確です。
 
-🔗 方式別の比較表・消費電力別の早見表・在宅ワーク部屋での選び方は、プロフィールのリンクから「QOLガジェット研究所」の記事へ
+🔗 方式別の比較表・消費電力別の早見表・在宅ワーク部屋での選び方は「QOLガジェット研究所」の記事へ
+URL：zaq-master.github.io/ai-lab/posts/humidifier-electricity-cost-telework.html（IGのキャプション内のリンクは押せないので、ブラウザのアドレス欄に入力してください）
+リンク先の記事には楽天の商品リンク（広告）があります
 
 保存しておくと、加湿器を選ぶときにすぐ見返せます。
 
